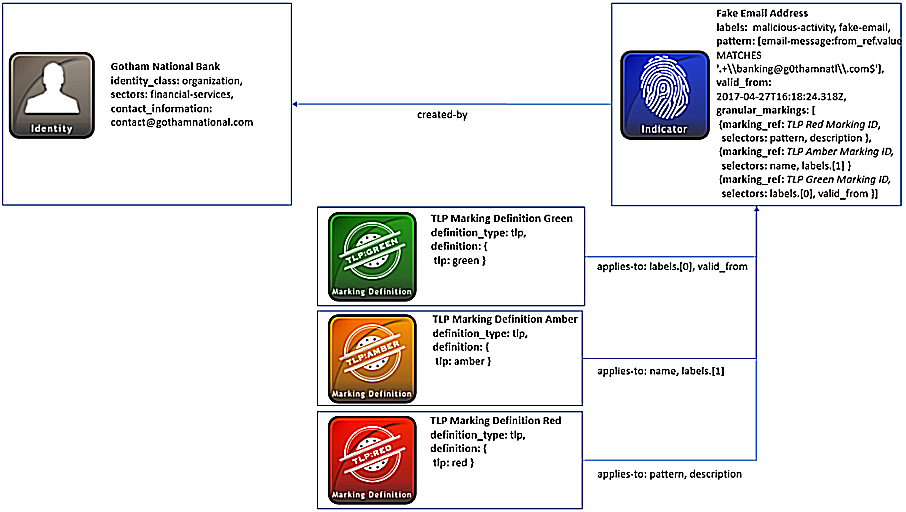
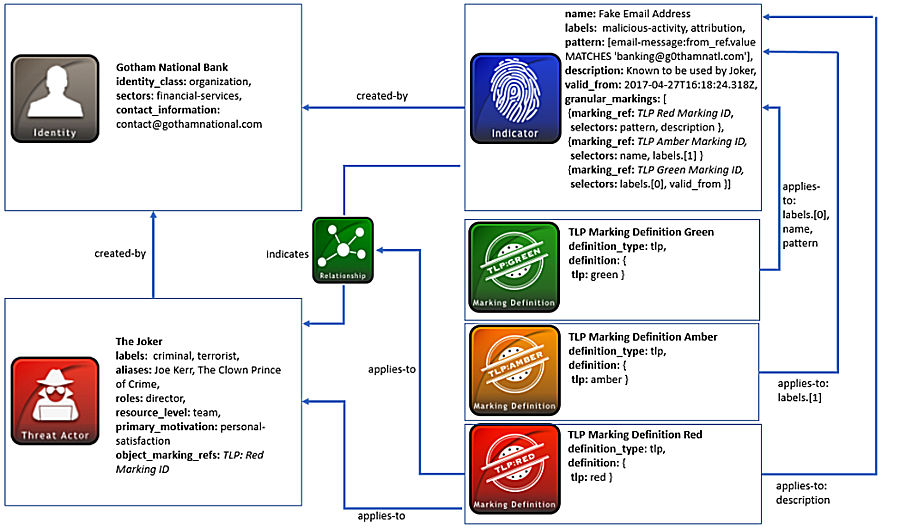
Updated Markings Examples, diagrams, and added video
--Changed the Granular Markings Example Scenario to add a threat actor
SDO and relationship SRO. Updated JSON and diagram to reflect changes.
--Updated Marking definition example and diagram to align with the
spec's version of TLP instead of a user-created TLP marking which wasn't
allowed
--Bolded all the relationship lines in every diagram to distinquish
between the object boxes
--Added new tutorial video to the Examples page

Changed region(s): [[0.0, 0.0, 1.0, 1.0], [0.0, 0.625, 0.3091, 0.9062], [0.0, 0.5625, 0.0309, 0.5938]]

diff --git a/examples/using-granular-markings.md b/examples/using-granular-markings.md
@@ -20,9 +20,9 @@ In order to enforce limitations on specific properties of the Indicator object, 
 
 A point of emphasis worth noting is that the TLP Marking Object Types defined in the STIX 2.0 specification must be used to represent TLP markings. Gotham or any other producer could not create their own TLP markings but could create organization-specific [Statement Marking Object Types](https://docs.google.com/document/d/1IcA5KhglNdyX3tO17bBluC5nqSf70M5qgK9nuAoYJgw/edit#heading=h.3ru8r05saera). Both of these types, TLP and Statement, also cannot be versioned like other STIX objects, which is why there is no <span class="sdo">**modified**</span> property on either of these types. To understand more about versioning objects, check out this helpful tutorial video on [How to Use Versioning in STIX 2](https://www.youtube.com/watch?v=s4c4PHUfttE).
 
-Now that Gotham has selected the appropriate TLP Marking Object types, they can be applied to other STIX objects or properties of objects. In this scenario, they are attached to properties of an [Indicator](https://docs.google.com/document/d/1S5XhY6F5OT599b0OuHtUf8IBzFvNY8RysFHIj93DgsY/edit#heading=h.muftrcpnf89v) SDO Gotham generated. This Indicator was created to represent a fake email address suspected in emailing the bank's members asking for their credentials. Due to the sensitivity of some of the information contained within this Indicator, they applied different TLP markings to individual portions of this object with the <span class="sdo">**granular\_markings**</span> property. This property is a list that contains Marking Definition object ID references with the <span class="sdo">**marking\_ref**</span> field, and a <span class="sdo">**selectors**</span> property that specifies the content that should be marked with this marking definition. For instance, Gotham felt the need to apply strict TLP: Red markings to the <span class="sdo">**pattern**</span> and <span class="sdo">**description**</span> fields since they contain the most detailed and sensitive intelligence about the Indicator. To illustrate further, within the <span class="sdo">**granular\_markings**</span> field of the Indicator, the <span class="sdo">**marking\_ref**</span> property would contain the marking definition UUID for TLP: Red and the <span class="sdo">**selectors**</span> list would hold the values <span class="values">pattern</span> and <span class="values">description</span>.
+Now that Gotham has selected the appropriate TLP Marking Object types, they can be applied to other STIX objects or properties of objects. In the first part of this scenario, they are attached to properties of an [Indicator](https://docs.google.com/document/d/1S5XhY6F5OT599b0OuHtUf8IBzFvNY8RysFHIj93DgsY/edit#heading=h.muftrcpnf89v) SDO Gotham generated. This Indicator was created to represent a fake email address suspected in emailing the bank's members asking for their credentials. Due to the sensitivity of some of the information contained within this Indicator, they applied different TLP markings to individual portions of this object with the <span class="sdo">**granular\_markings**</span> property. This property is a list that contains Marking Definition object ID references with the <span class="sdo">**marking\_ref**</span> field, and a <span class="sdo">**selectors**</span> property that specifies the content that should be marked with this marking definition. For instance, Gotham felt the need to apply a strict TLP: Red marking to the <span class="sdo">**description**</span> field since this gives certain sensitive intelligence about the threat actor in this scenario (discussed later). To illustrate further, within the <span class="sdo">**granular\_markings**</span> field of the Indicator, the <span class="sdo">**marking\_ref**</span> property would contain the marking definition ID for TLP: Red and the <span class="sdo">**selectors**</span> list would hold the value <span class="values">description</span>.
 
-For other Indicator properties, Gotham used less restrictive TLP markings than TLP: Red. One required Indicator property is a list of <span class="sdo">**labels**</span>, which gives more context about the type of indicator being modeled. In this property list, Gotham labeled this indicator as both <span class="values">malicious-activity</span> and <span class="values">fake-email</span>. The first label in the list, <span class="values">malicious-activity</span>, comes from the [Indicator Label Open Vocabulary](https://docs.google.com/document/d/1IcA5KhglNdyX3tO17bBluC5nqSf70M5qgK9nuAoYJgw/edit#heading=h.cvhfwe3t9vuo) and the 2nd label, <span class="values">fake-email</span>, is one Gotham chose since they are free to apply their own labels outside of the recommended STIX 2.0 vocabulary. Since <span class="values">malicious-activity</span> is a more generic label than <span class="values">fake-email</span>, Gotham applied the less restrictive TLP: Green marking. However for <span class="values">fake-email</span>, Gotham felt the need to attach a more moderately restrictive marking of TLP: Amber. In order to communicate two different markings like this on the <span class="sdo">**labels**</span> property, you would represent the first label in the list as <span class="values">labels\[0\]</span>, and the second as <span class="values">labels\[1\]</span>. To illustrate this, the JSON sample below shows how these would be marked if we were just marking the <span class="sdo">**labels**</span> field only (Note: Marking Definition ID starting with "f88..." is TLP: Amber and the ID starting with "340..." is TLP: Green):
+For other Indicator properties, Gotham used less restrictive TLP markings than TLP: Red. One required Indicator property is a list of <span class="sdo">**labels**</span>, which gives more context about the type of indicator being modeled. In this property list, Gotham labeled this indicator as both <span class="values">malicious-activity</span> and <span class="values">attribution</span>. Both labels in the list come from the STIX 2.0 specification's [Indicator Label Open Vocabulary](https://docs.google.com/document/d/1IcA5KhglNdyX3tO17bBluC5nqSf70M5qgK9nuAoYJgw/edit#heading=h.cvhfwe3t9vuo). Gotham decided to apply the less restrictive TLP: Green marking to <span class="values">malicious-activity</span> and felt a the more restrictive TLP: Amber marking was needed for <span class="values">attribution</span>. In order to communicate two different markings like this on the <span class="sdo">**labels**</span> property, the first label in the list is represented as <span class="values">labels\[0\]</span>, and the second as <span class="values">labels\[1\]</span>. To illustrate this, the JSON sample below shows how these would be marked if we were just marking the <span class="sdo">**labels**</span> field only (Note: Marking Definition ID starting with "f88..." is TLP: Amber and the ID starting with "340..." is TLP: Green):
 
 ```
 {
@@ -42,7 +42,11 @@ For other Indicator properties, Gotham used less restrictive TLP markings than T
 ]}
 ```
 
-Along with these Indicator <span class="sdo">**labels**</span>, Gotham chose to mark the property <span class="sdo">**name**</span> as TLP: Amber and the property <span class="sdo">**valid\_from**</span> as TLP: Green. They can mark any property they would like but cannot mark invalid properties such as <span class="values">labels\[3\]</span>, or <span class="values">kill\_chain\_phases\[0\]</span> since these are not present currently within this Indicator SDO.
+Along with these Indicator <span class="sdo">**labels**</span>, Gotham chose to mark the properties <span class="sdo">**name**</span> and <span class="sdo">**pattern**</span> as TLP: Green. They can mark any property they would like but cannot mark invalid properties such as <span class="values">labels\[3\]</span>, or <span class="values">kill\_chain\_phases\[0\]</span> since these are not present currently within this Indicator SDO.
+
+Gotham also created a [Threat Actor SDO](https://docs.google.com/document/d/1S5XhY6F5OT599b0OuHtUf8IBzFvNY8RysFHIj93DgsY/edit#heading=h.k017w16zutw) to capture information about the threat actor this Indicator indicates. In this example, the threat actor, whose <span class="sdo">**name**</span> is known as <span class="values">The Joker</span>, has been attributed to the fake email indicator. Along with <span class="sdo">**name**</span>, this object helps to structure other information about The Joker such as <span class="sdo">**aliases**</span>, <span class="sdo">**roles**</span>, and a <span class="sdo">**primary_motivation**</span>. Since all of this intelligence is considered sensitive to Gotham National, they marked the entire object as TLP: Red using [object markings](https://docs.google.com/document/d/1IcA5KhglNdyX3tO17bBluC5nqSf70M5qgK9nuAoYJgw/edit#heading=h.bnienmcktc0n) instead of granular markings. This is accomplished through a property inherent in all SDO's and STIX Relationship Object's (SRO's) called <span class="sdo">**object_marking_refs**</span>, which lists all the marking definition IDs that apply to this object. Unlike the <span class="sdo">**granular\_markings**</span> property that would apply to different fields within Threat Actor, the <span class="sdo">**object_marking_refs**</span> applies to the entire Threat Actor SDO.  
+
+The final piece of intelligence in this scenario is a [Relationship SRO](https://docs.google.com/document/d/1S5XhY6F5OT599b0OuHtUf8IBzFvNY8RysFHIj93DgsY/edit#heading=h.e2e1szrqfoan) that connects the Indicator and Threat Actor SDO's together. In this relationship, a <span class="sdo">**relationship_type**</span> property specifies that this Indicator <span class="values">indicates</span> the Threat Actor. Due to the fact this Relationship object links to a TLP: Red marked object, Gotham also marked it as TLP: Red once again using the <span class="sdo">**object_marking_refs**</span> field within Relationship.
 
 The full JSON representation can be seen at the very end of this example and a diagram of the scenario is illustrated below:
 
@@ -57,8 +61,11 @@ To read more about the objects in this example as well as common properties and 
 -   [Vocabularies](https://docs.google.com/document/d/1HRVFn2kAxBOTMbEb3KRu8tjMoHm-KRAI-2R8CTzGil4/edit#heading=h.iit7tolczlxv)
 -   [Identity](https://docs.google.com/document/d/1nipwFIaFwkHo4Gzw-qxZQpCjP_5tX7rbI3Ic5C56Z88/edit#heading=h.wh296fiwpklp)
 -   [Indicator](https://docs.google.com/document/d/1S5XhY6F5OT599b0OuHtUf8IBzFvNY8RysFHIj93DgsY/edit#heading=h.muftrcpnf89v)
+-   [Threat Actor](https://docs.google.com/document/d/1S5XhY6F5OT599b0OuHtUf8IBzFvNY8RysFHIj93DgsY/edit#heading=h.k017w16zutw)
+-   [Relationship](https://docs.google.com/document/d/1S5XhY6F5OT599b0OuHtUf8IBzFvNY8RysFHIj93DgsY/edit#heading=h.e2e1szrqfoan)
 -   [Marking Definitions](https://docs.google.com/document/d/1IcA5KhglNdyX3tO17bBluC5nqSf70M5qgK9nuAoYJgw/edit#heading=h.j0uqagkk6m9n)
 -   [Granular Markings](https://docs.google.com/document/d/1IcA5KhglNdyX3tO17bBluC5nqSf70M5qgK9nuAoYJgw/edit#heading=h.robezi5egfdr)
+-   [Object Markings](https://docs.google.com/document/d/1IcA5KhglNdyX3tO17bBluC5nqSf70M5qgK9nuAoYJgw/edit#heading=h.bnienmcktc0n)
 -   [Statement Marking Object Type](https://docs.google.com/document/d/1IcA5KhglNdyX3tO17bBluC5nqSf70M5qgK9nuAoYJgw/edit#heading=h.3ru8r05saera)
 -   [TLP Object Marking Type](https://docs.google.com/document/d/1IcA5KhglNdyX3tO17bBluC5nqSf70M5qgK9nuAoYJgw/edit#heading=h.yd3ar14ekwrs)
 -   [STIX Patterning](https://docs.google.com/document/d/1suvd7z7YjNKWOwgko-vJ84jfGuxSYZjOQlw5leCswPY/edit)
@@ -83,6 +90,30 @@ To read more about the objects in this example as well as common properties and 
       "contact_information": "contact@gothamnational.com",
       "sectors": [
         "financial-services"
+      ]
+    },
+    {
+      "type": "threat-actor",
+      "id": "threat-actor--8b6297fe-cae7-47c6-9256-5584b417849c",
+      "created": "2017-04-27T16:18:24.318Z",
+      "modified": "2017-04-27T16:18:24.318Z",
+      "created_by_ref": "identity--b38dfe21-7477-40d1-aa90-5c8671ce51ca",
+      "name": "The Joker",
+      "labels": [
+        "criminal",
+        "terrorist"
+      ],
+      "aliases": [
+        "Joe Kerr",
+        "The Clown Prince of Crime"
+      ],
+      "roles": [
+        "director"
+      ],
+      "resource_level": "team",
+      "primary_motivation": "personal-satisfaction",
+      "object_marking_refs": [
+        "marking-definition--5e57c739-391a-4eb3-b6be-7d15ca92d5ed"
       ]
     },
     {
@@ -119,10 +150,10 @@ To read more about the objects in this example as well as common properties and 
       "modified": "2017-04-27T16:18:24.318Z",
       "created_by_ref": "identity--b38dfe21-7477-40d1-aa90-5c8671ce51ca",
       "name": "Fake email address",
-      "description": "Messages from this false email address been sent to customers.",
+      "description": "Known to be used by The Joker.",
       "labels": [
         "malicious-activity",
-        "fake-email"
+        "attribution"
       ],
       "pattern": "[email-message:from_ref.value MATCHES '.+\\\\banking@g0thamnatl\\\\.com$']",
       "valid_from": "2017-04-27T16:18:24.318Z",
@@ -130,14 +161,12 @@ To read more about the objects in this example as well as common properties and 
         {
           "marking_ref": "marking-definition--5e57c739-391a-4eb3-b6be-7d15ca92d5ed",
           "selectors": [
-            "pattern",
             "description"
           ]
         },
         {
           "marking_ref": "marking-definition--f88d31f6-486f-44da-b317-01333bde0b82",
           "selectors": [
-            "name",
             "labels.[1]"
           ]
         },
@@ -145,10 +174,23 @@ To read more about the objects in this example as well as common properties and 
           "marking_ref": "marking-definition--34098fce-860f-48ae-8e50-ebd3cc5e41da",
           "selectors": [
             "labels.[0]",
-            "valid_from"
+            "name",
+            "pattern"
           ]
         }
       ]
+    },
+    {
+      "type": "relationship",
+      "id": "relationship--3d1dd3cc-eb47-4704-9c77-ceff2971b95c",
+      "created": "2017-04-27T16:18:24.318Z",
+      "modified": "2017-04-27T16:18:24.318Z",
+      "relationship_type": "indicates",
+      "object_marking_refs": [
+        "marking-definition--5e57c739-391a-4eb3-b6be-7d15ca92d5ed"
+      ],
+      "source_ref": "indicator--1ed8caa7-a708-4706-b651-f1186ede6ca1",
+      "target_ref": "threat-actor--8b6297fe-cae7-47c6-9256-5584b417849c"
     }
   ]
 }

diff --git a/stix/examples.md b/stix/examples.md
@@ -27,7 +27,7 @@ The examples below demonstrate how to use STIX 2.0 concepts for common use cases
 | --------------------------------------- | ------------------------------------------------- | ------------------------------------------- |
 | [Using Marking Definitions](/cti-documentation/examples/using-marking-definitions) | ![Identity Icon]({{ site.baseurl }}/img/icons/identity.png) ![Indicator Icon]({{ site.baseurl }}/img/icons/indicator.png) ![Amber Marking Icon]({{ site.baseurl }}/img/icons/tlp_amber.png) ![Statement Marking Icon]({{ site.baseurl }}/img/icons/restricted_marking.png) | Sometimes when creating STIX objects it may be useful to provide guidance or permissions on how those objects may be used. In this example, Marking Definition objects are created and applied to an Indicator object to specify restrictions and copyright information. |
 | --------------------------------------- | ------------------------------------------------- | ------------------------------------------- |
-| [Using Granular Markings](/cti-documentation/examples/using-granular-markings) | ![Identity Icon]({{ site.baseurl }}/img/icons/identity.png) ![Indicator Icon]({{ site.baseurl }}/img/icons/indicator.png) ![Green Marking Icon]({{ site.baseurl }}/img/icons/tlp_green.png) ![Amber Marking Icon]({{ site.baseurl }}/img/icons/tlp_amber.png) ![Red Marking Icon]({{ site.baseurl }}/img/icons/tlp_red.png) | Whereas object markings in STIX can limit or restrict how entire objects are used, granular markings delve deeper into the objects and focus on restricting specific individual properties. This example demonstrates how to enforce different TLP markings on multiple properties of an Indicator SDO. | 
+| [Using Granular Markings](/cti-documentation/examples/using-granular-markings) | ![Identity Icon]({{ site.baseurl }}/img/icons/identity.png) ![Indicator Icon]({{ site.baseurl }}/img/icons/indicator.png) ![Green Marking Icon]({{ site.baseurl }}/img/icons/tlp_green.png) ![Amber Marking Icon]({{ site.baseurl }}/img/icons/tlp_amber.png) ![Red Marking Icon]({{ site.baseurl }}/img/icons/tlp_red.png) | Whereas object markings in STIX can limit or restrict how entire objects are used, granular markings delve deeper into the objects and focus on restricting specific individual properties. This example demonstrates how to enforce different TLP markings on multiple properties of an Indicator SDO. |
 
 
 STIX 2.0 Tutorials
@@ -58,6 +58,19 @@ The next video provides an overview of STIX 2.0 objects. It highlights the four 
 	<div class="video-container">
 		<iframe src="https://www.youtube.com/embed/iAnd3rApMcA?ecver=2" width="640" height="360" frameborder="0"></iframe>
 	</div>
-	<!-- /video -->
+	<!-- /video --><br><br>
+</div>
+<!-- /video-wrapper -->
+
+Common Properties
+----------------
+
+This video discusses the common properties that are universal to all STIX Domain Objects (SDOs) and STIX Relationship Objects (SROs).
+
+<div class="video-wrapper">
+	<div class="video-container">
+		<iframe src="https://www.youtube.com/embed/dv-Zt4k1zt0?ecver=2" width="640" height="360" frameborder="0"></iframe>
+	</div>
+	<!-- /video --><br><br>
 </div>
 <!-- /video-wrapper -->
